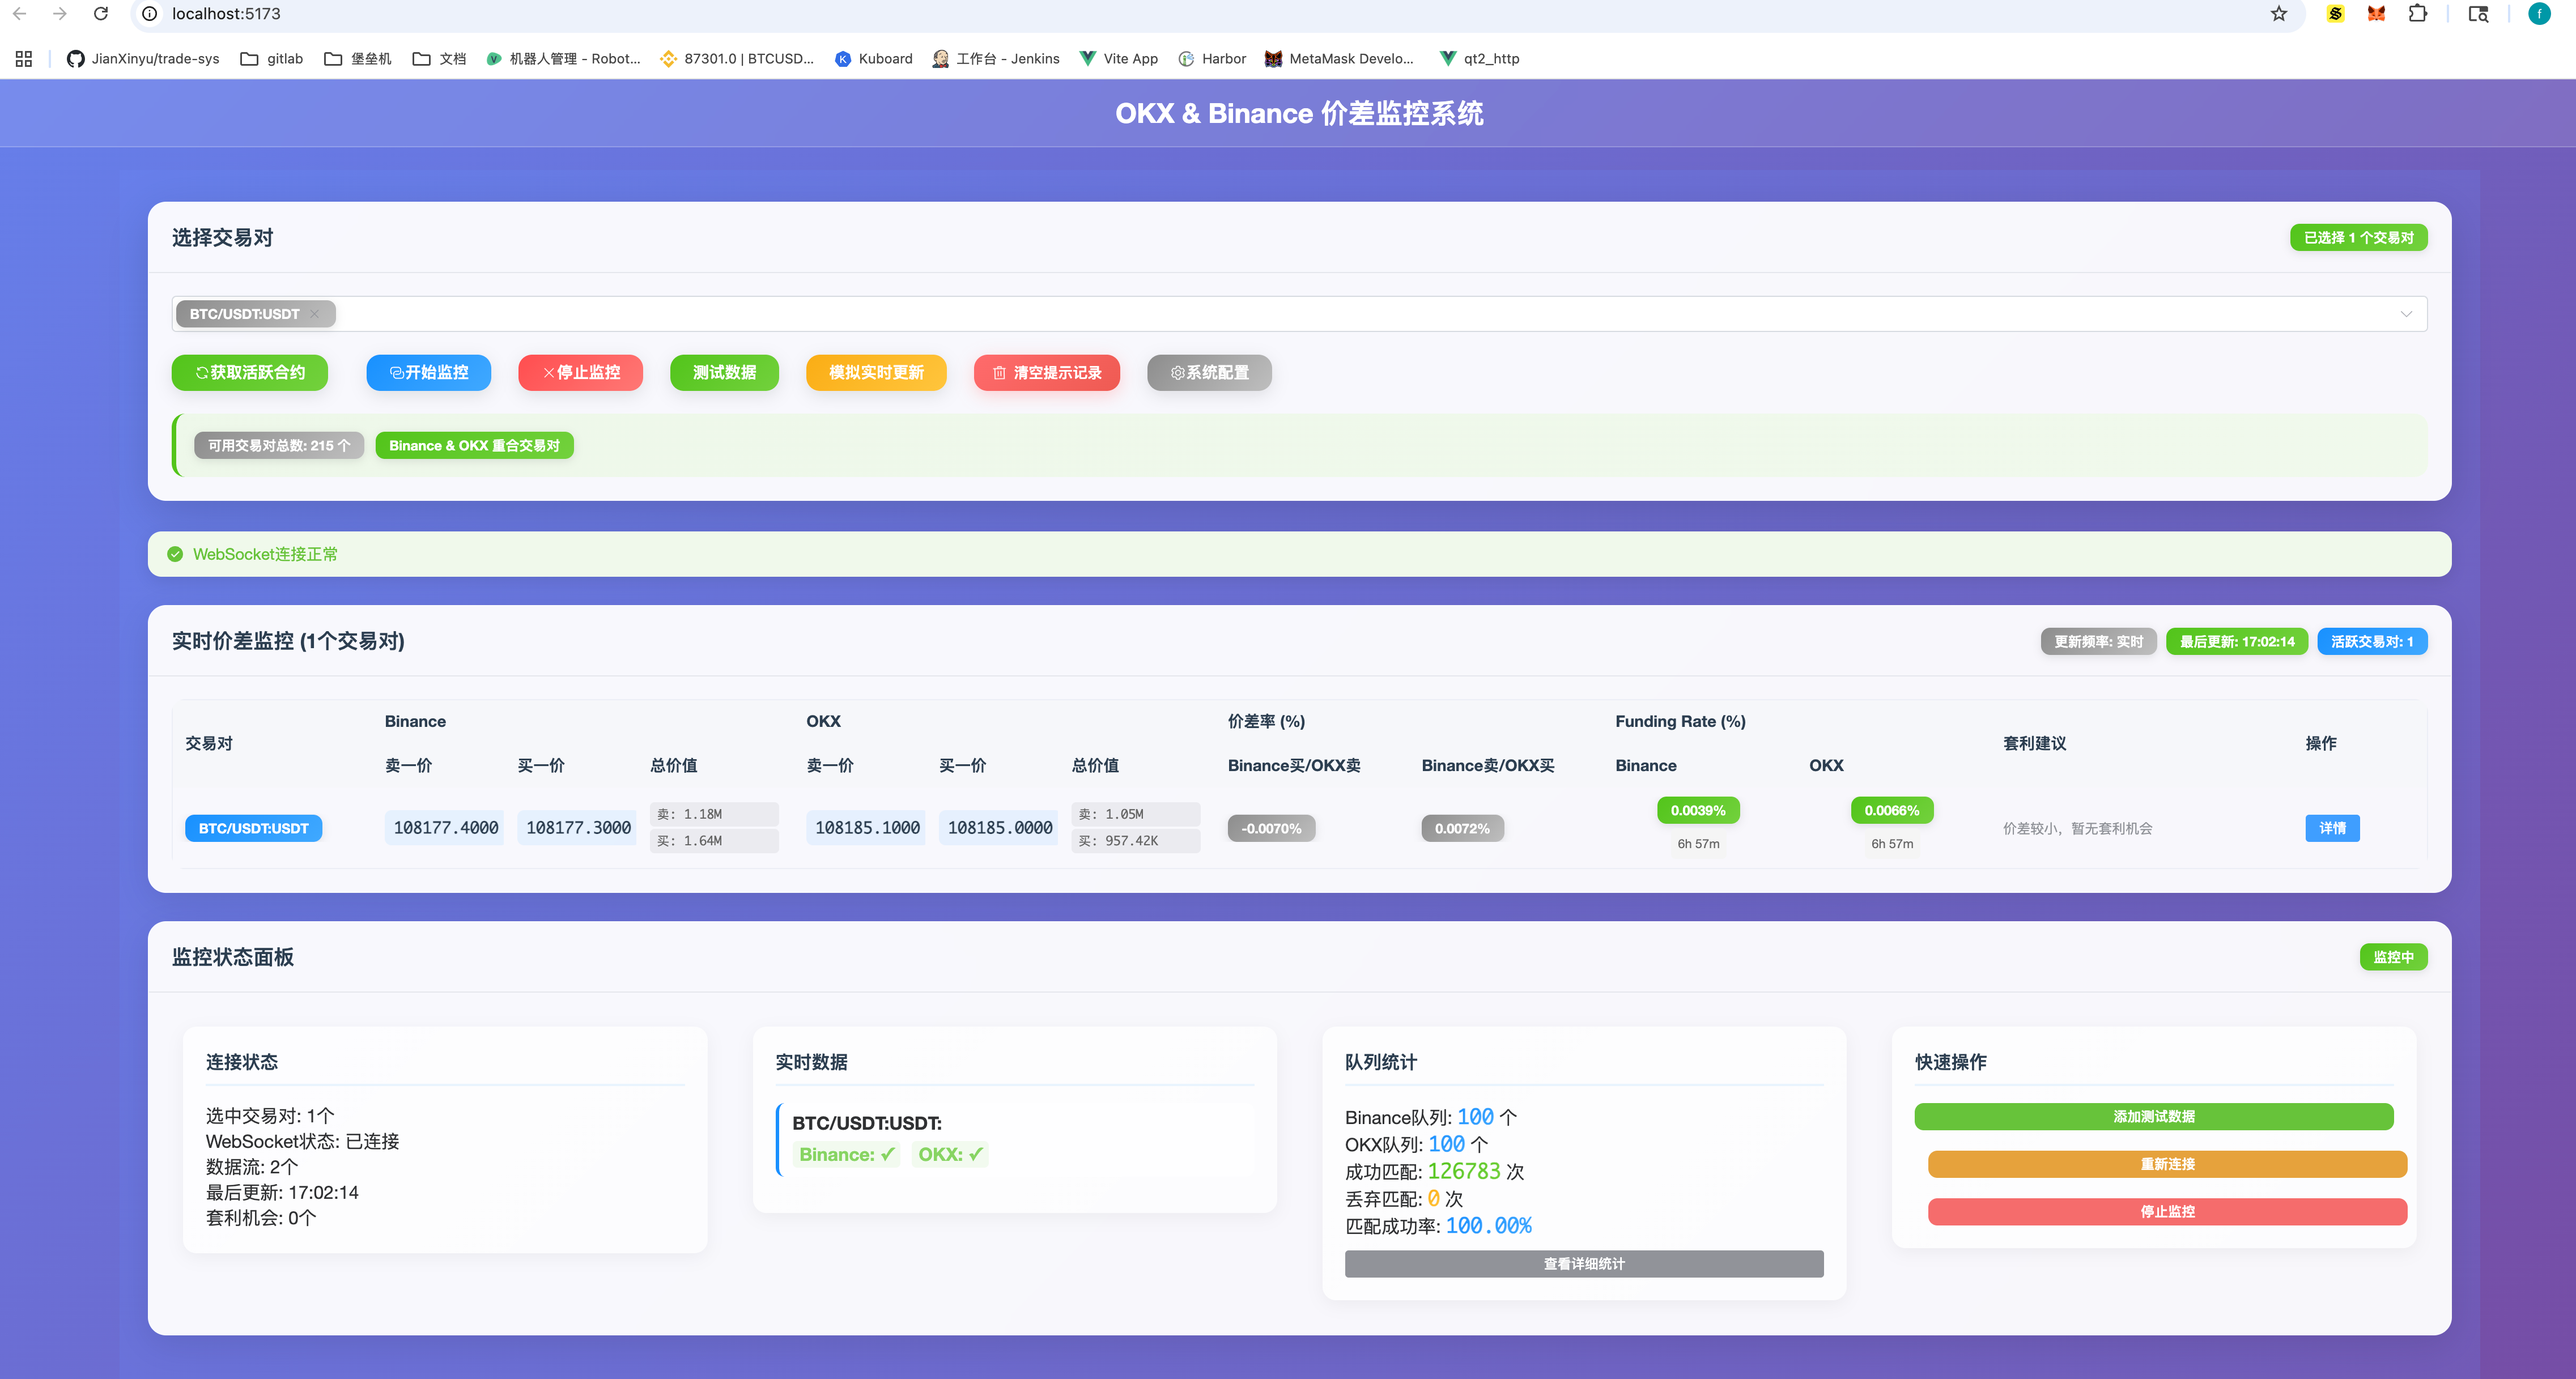
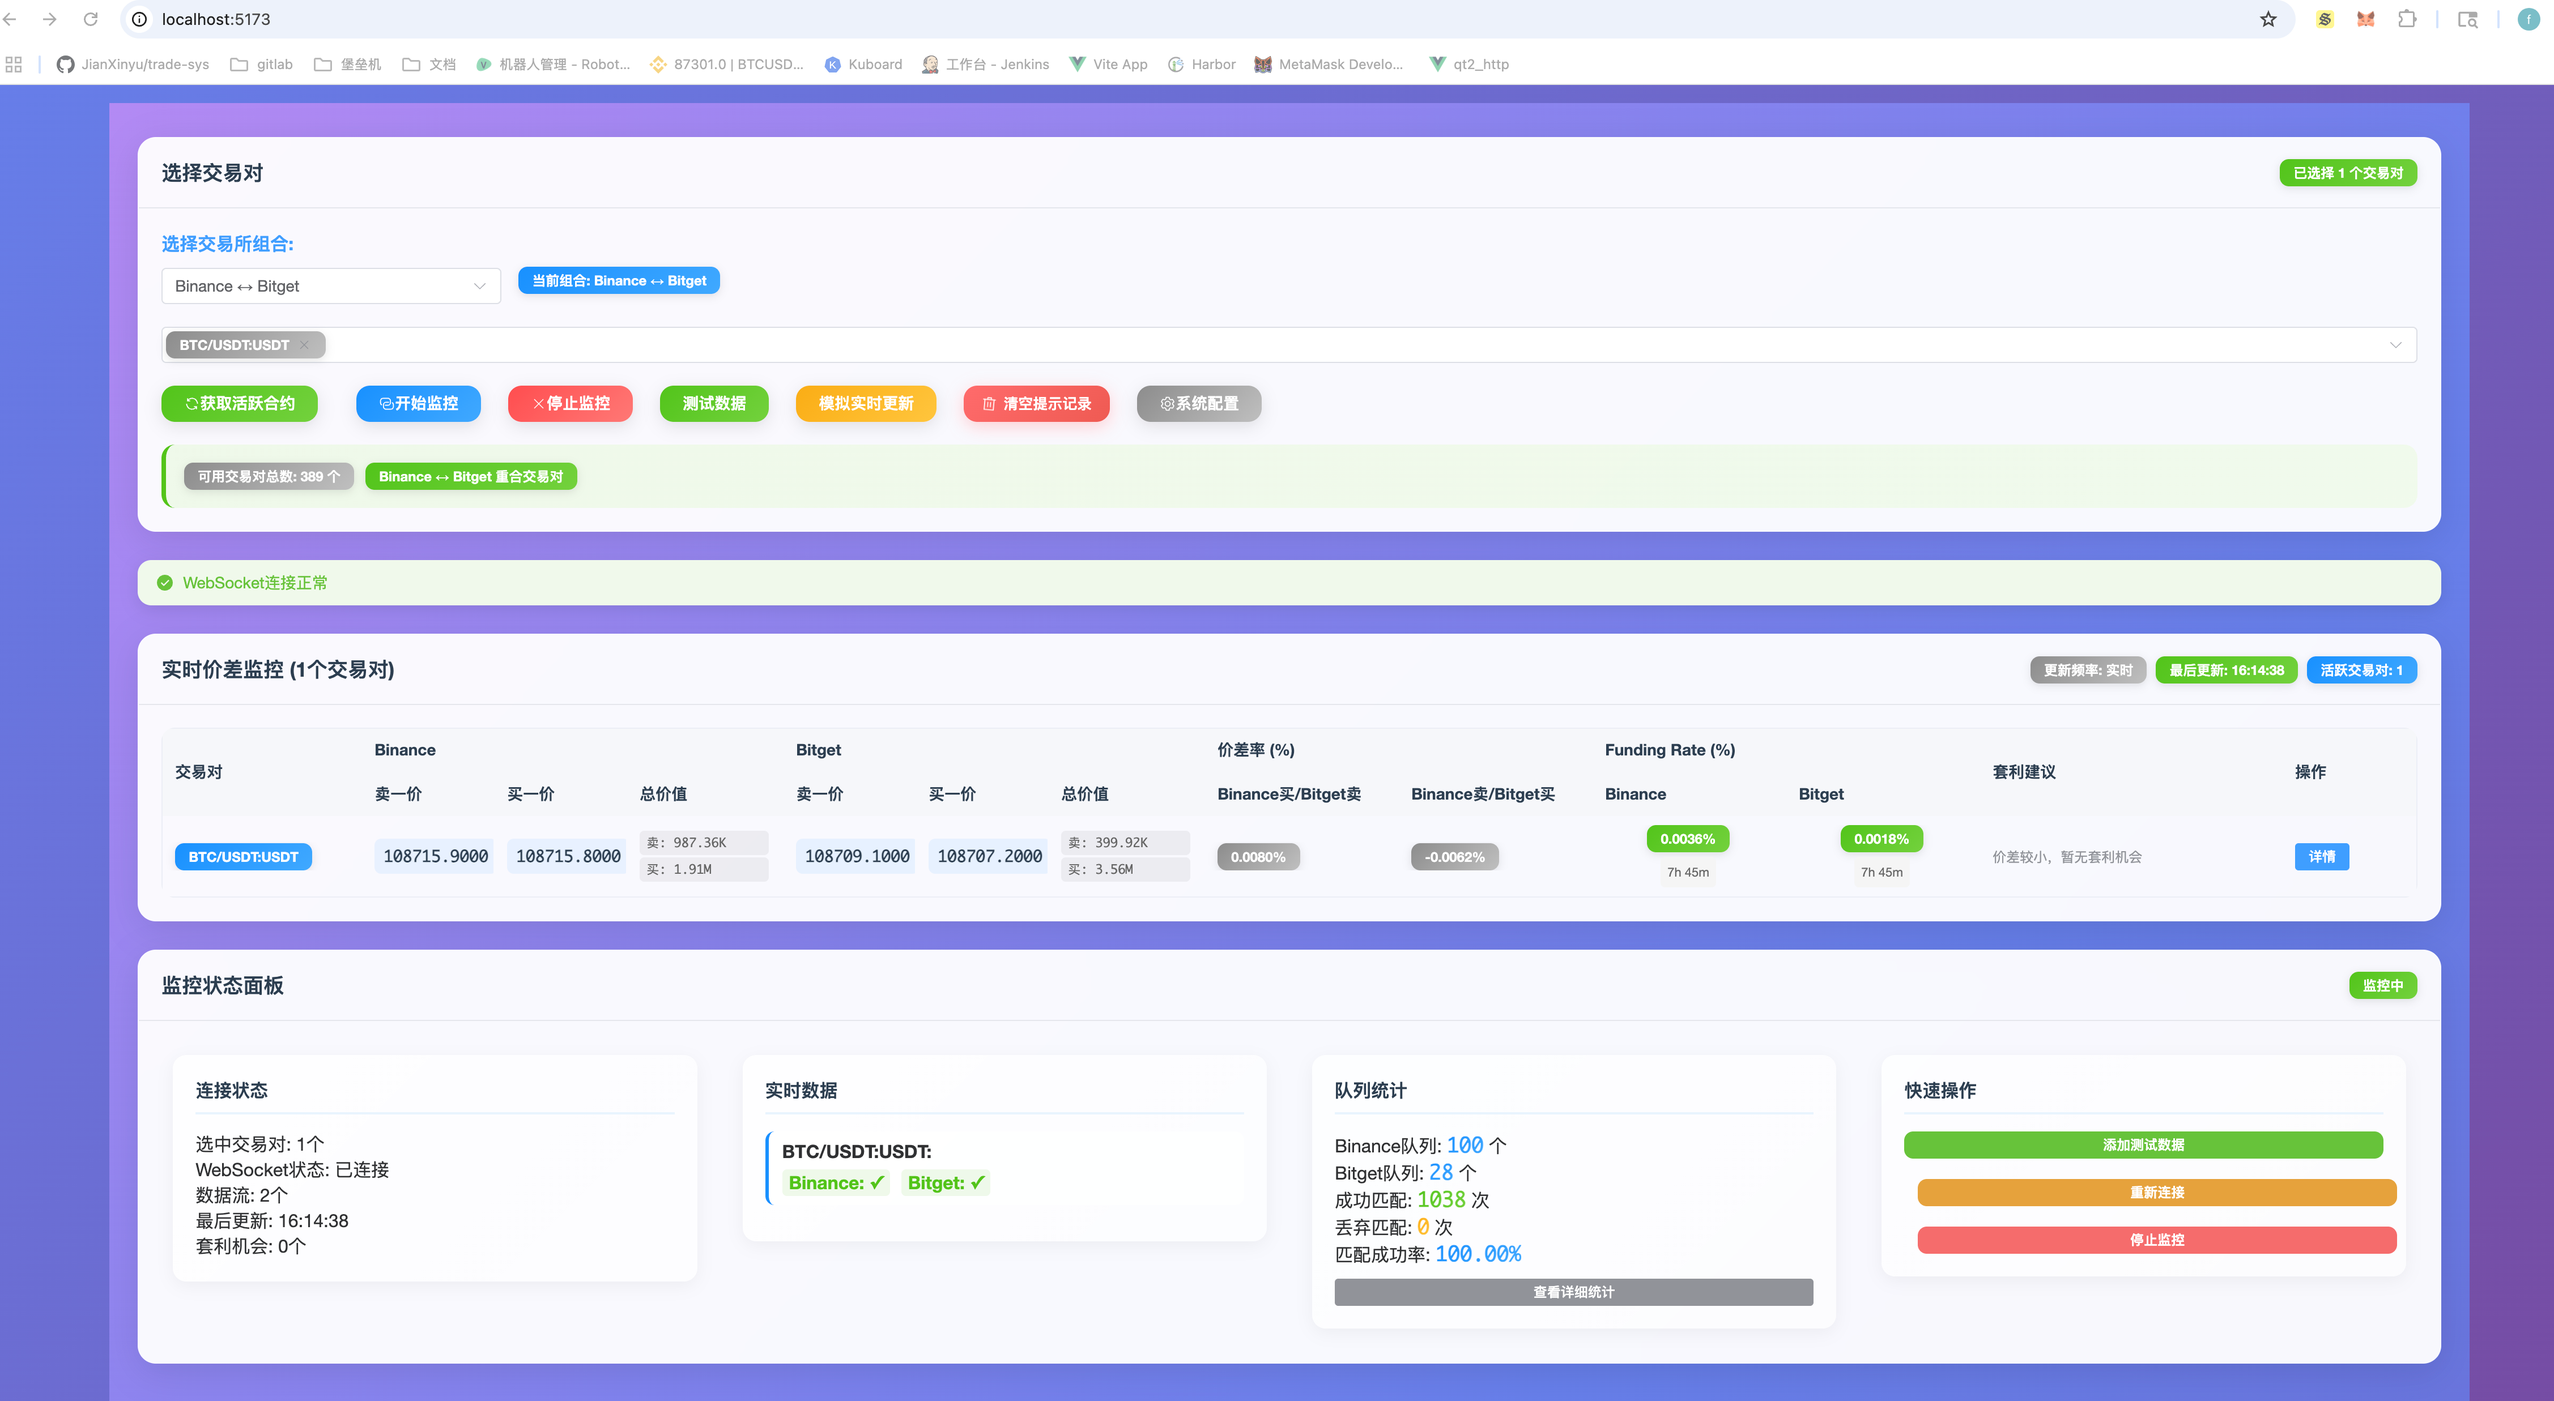
添加bitget 和资费自动更新

diff --git a/src/stores/priceStore.js b/src/stores/priceStore.js
@@ -875,6 +875,9 @@ export const usePriceStore = defineStore('price', () => {
       // 启动状态检查
       startStatusCheck()
       
+      // 启动资金费率定时更新
+      startFundingRateUpdates()
+      
       isConnected.value = true
       console.log(`${firstExchange} ↔ ${secondExchange} WebSocket连接完成，各交易对的独立协程已启动`)
     } catch (error) {
@@ -1327,6 +1330,9 @@ export const usePriceStore = defineStore('price', () => {
     
     // 停止状态检查
     stopStatusCheck()
+    
+    // 停止资金费率定时更新
+    stopFundingRateUpdates()
     
     // 清空所有队列和协程
     symbolQueues.value = {}
@@ -2003,6 +2009,37 @@ export const usePriceStore = defineStore('price', () => {
     
     console.log('所有Funding Rate获取完成')
   }
+
+  // 定时更新资金费率
+  let fundingRateUpdateInterval = null
+  const startFundingRateUpdates = () => {
+    if (fundingRateUpdateInterval) {
+      clearInterval(fundingRateUpdateInterval)
+    }
+    
+    // 立即获取一次
+    if (selectedSymbols.value.length > 0) {
+      fetchAllFundingRates()
+    }
+    
+    // 每10分钟更新一次资金费率
+    fundingRateUpdateInterval = setInterval(() => {
+      if (selectedSymbols.value.length > 0) {
+        console.log('定时更新资金费率...')
+        fetchAllFundingRates()
+      }
+    }, 10 * 60 * 1000) // 10分钟
+    
+    console.log('资金费率定时更新已启动 (每10分钟)')
+  }
+
+  const stopFundingRateUpdates = () => {
+    if (fundingRateUpdateInterval) {
+      clearInterval(fundingRateUpdateInterval)
+      fundingRateUpdateInterval = null
+      console.log('资金费率定时更新已停止')
+    }
+  }
   
   // 格式化Funding Rate显示
   const formatFundingRate = (rate) => {
@@ -2105,6 +2142,8 @@ export const usePriceStore = defineStore('price', () => {
     fetchFundingRateForSymbol,
     fetchAllFundingRates,
     fetchBitgetFundingRate,
+    startFundingRateUpdates,
+    stopFundingRateUpdates,
     formatFundingRate,
     formatFundingRatePeriod,
     formatNextFundingTime,

diff --git a/README.md b/README.md
@@ -1,6 +1,6 @@
-# OKX & Binance 价差监控系统
+# OKX & Binance & Bitget 价差监控系统
 
-一个基于Vue3的实时价差监控系统，用于监控OKX和Binance交易所之间的价格差异。
+一个基于Vue3的实时价差监控系统，用于监控OKX和Binance,Bitget交易所之间的价格差异。
 
 ## 功能特性
 
@@ -115,6 +115,7 @@ pkill -f node
 ## 界面展示
 ![主页展示 ](./example_image/主页.png)
 ![详情页展示 ](./example_image/详情页.png)
+![配置页展示 ](./example_image/配置页.png)
 
 ## 打赏地址 哈哈和别人一样也写一个
 - solana 4HLYN6b3fUAQwJnvz73DknV3MCBHkmomP1WK1TMcbPZC
